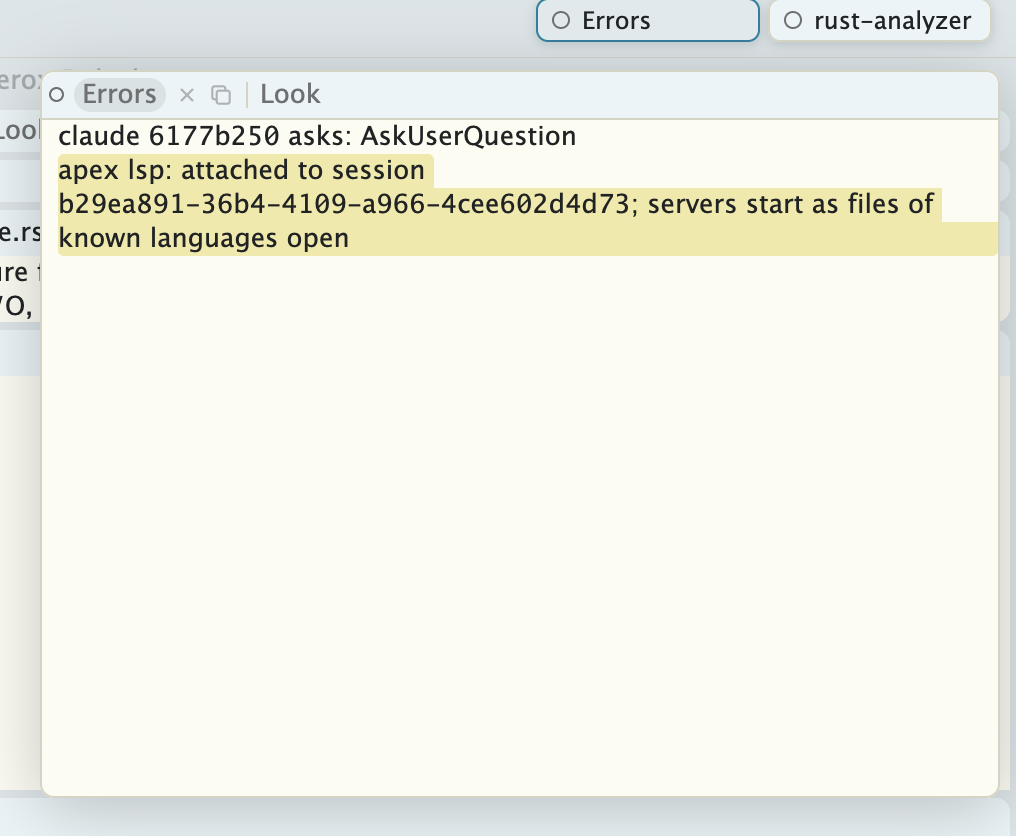
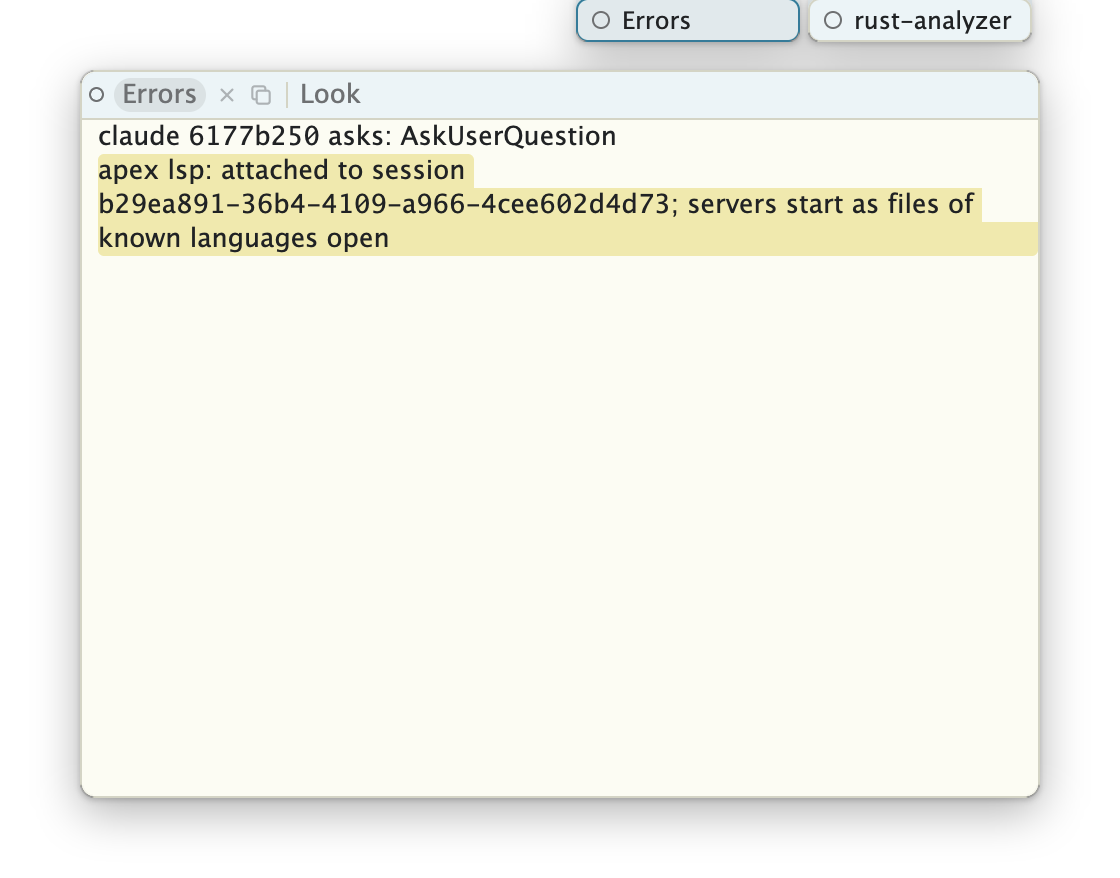
Guide screenshots cut out of the background, with a shadow

Changed region(s): [[0.0, 0.0, 1.0, 1.0]]

diff --git a/docs/userguide.html b/docs/userguide.html
@@ -34,7 +34,7 @@
   a:visited { color: #551a8b; }
   figure { margin: 0 0 1em; }
   figure img { display: block; max-width: 100%; height: auto; }
-  figure img + img { margin-top: 0.4em; }
+  figure img + img { margin-top: -1.2em; }
   figcaption { font-size: 0.9em; font-style: italic; margin-top: 0.3em; }
   .contents { columns: 2; column-gap: 2em; }
   footer { margin-top: 3em; font-size: 0.9em; text-align: center; }
@@ -117,13 +117,13 @@ A ring in the accent colour means a program is live in the window; a
 spinning arc means it is working. A window that wants your attention has
 its tag tinted.</p>
 
-<figure><img src="guide-tag-clean.png" alt="The tag of a clean window: a hollow dot, the path crates/apex-core/src/state.rs, icons for Del, Snarf and Redo, then Look." width="693" height="30"><img src="guide-tag-dirty.png" alt="The same tag with unsaved changes: a filled dot, and icons for Del, Snarf, Undo and Put." width="694" height="27"><img src="guide-tag-term.png" alt="A terminal's tag: a ringed dot, the directory, the label airy, and icons for Del, Snarf and Send." width="695" height="133"><figcaption>A clean file, the same file with unsaved changes (now offering Undo and Put), and a terminal with a live shell.</figcaption></figure>
+<figure><img src="guide-tag-clean.png" alt="The tag of a clean window: a hollow dot, the path crates/apex-core/src/state.rs, icons for Del, Snarf and Redo, then Look." width="724" height="61"><img src="guide-tag-dirty.png" alt="The same tag with unsaved changes: a filled dot, and icons for Del, Snarf, Undo and Put." width="724" height="61"><img src="guide-tag-term.png" alt="A terminal's tag: a ringed dot, the directory, the label airy, and icons for Del, Snarf and Send." width="739" height="186"><figcaption>A clean file, the same file with unsaved changes (now offering Undo and Put), and a terminal with a live shell.</figcaption></figure>
 
 <p>Window bodies come in three kinds: text, terminals, and pages
 (HTML, drawn by a web view). They are tiled, moved, and closed in
 exactly the same way.</p>
 
-<figure><a href="guide-screen.png"><img src="guide-screen.png" alt="Apex with two columns. The title bar holds the session's name, its directory, pills for the running lsp, agent and preview tools, and the top row's commands. Each column has a tag of commands; the left window shows DESIGN.md, the right a Preview of it." width="1000" height="628"></a><figcaption>The title bar: the session, its directory, the running tools, and the top row. Below, two columns, each with its tag; on the left a file, on the right its Preview.</figcaption></figure>
+<figure><a href="guide-screen.png"><img src="guide-screen.png" alt="Apex with two columns. The title bar holds the session's name, its directory, pills for the running lsp, agent and preview tools, and the top row's commands. Each column has a tag of commands; the left window shows DESIGN.md, the right a Preview of it." width="1111" height="739"></a><figcaption>The title bar: the session, its directory, the running tools, and the top row. Below, two columns, each with its tag; on the left a file, on the right its Preview.</figcaption></figure>
 
 <p>The sidebar (⌃⌘S, or the button by the window's traffic lights) lists
 your sessions, grouped by host, and the windows of the one showing.</p>
@@ -255,7 +255,7 @@ this for you: it puts the caret in the window's Look argument, ready to
 type. ⌘G and ⌘⇧G find the next and previous matches. While a search is
 going on, every match in the window is faintly highlighted.</p>
 
-<figure><img src="guide-look.png" alt="A window whose tag reads Look/acme/ with the caret in the argument. In the body the first acme is selected, and the later ones are faintly highlighted." width="598" height="399"><figcaption>Typing <code>Look/acme/</code>: the match is selected, and the others are marked.</figcaption></figure>
+<figure><img src="guide-look.png" alt="A window whose tag reads Look/acme/ with the caret in the argument. In the body the first acme is selected, and the later ones are faintly highlighted." width="665" height="472"><figcaption>Typing <code>Look/acme/</code>: the match is selected, and the others are marked.</figcaption></figure>
 
 <p>Looking works in terminals and pages too, searching what they show
 (and a terminal's scrollback).</p>
@@ -284,7 +284,7 @@ work in it right there. Click a card to bring the window back where it was.
 Anything that goes to a stashed window, such as a look or a notification,
 brings it back as well.</p>
 
-<figure><img src="guide-stash.png" alt="Two stashed windows, Errors and rust-analyzer, as cards at the right of the title bar. Below them, the Errors window is shown live, with two lines selected." width="508" height="418"><figcaption>The stash fanned out: Errors and rust-analyzer's diagnostics, the first shown below the cards, live.</figcaption></figure>
+<figure><img src="guide-stash.png" alt="Two stashed windows, Errors and rust-analyzer, as cards at the right of the title bar. Below them, the Errors window is shown live, with two lines selected." width="560" height="439"><figcaption>The stash fanned out: Errors and rust-analyzer's diagnostics, the first shown below the cards, live.</figcaption></figure>
 
 <h2 id="keyboard">The keyboard</h2>
 
@@ -351,7 +351,7 @@ it appears briefly in a toast at the lower right. B3 on a
 <code>file:line</code> in the toast goes there; <i>Show All</i> shows the
 window. Language servers and other tools report the same way.</p>
 
-<figure><img src="guide-toast.png" alt="A toast headed Errors /Users/marius/, with Show All and a close button, listing file:line:col lines from a search." width="594" height="153"><figcaption>A toast with what is new in <code>+Errors</code>. Each <code>file:line</code> can be clicked with B3.</figcaption></figure>
+<figure><img src="guide-toast.png" alt="A toast headed Errors /Users/marius/, with Show All and a close button, listing file:line:col lines from a search." width="584" height="212"><figcaption>A toast with what is new in <code>+Errors</code>. Each <code>file:line</code> can be clicked with B3.</figcaption></figure>
 
 <p>A window can ask for your attention: an agent waiting for an answer,
 say, or a script running <code>apex notify</code>. Its tag is tinted,
